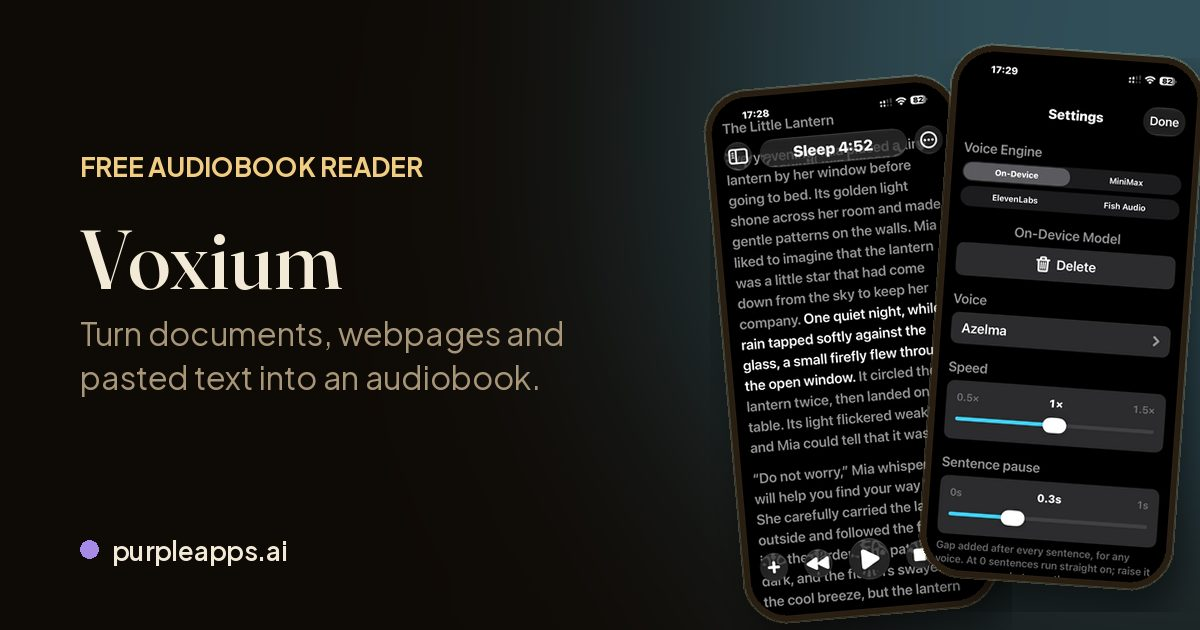
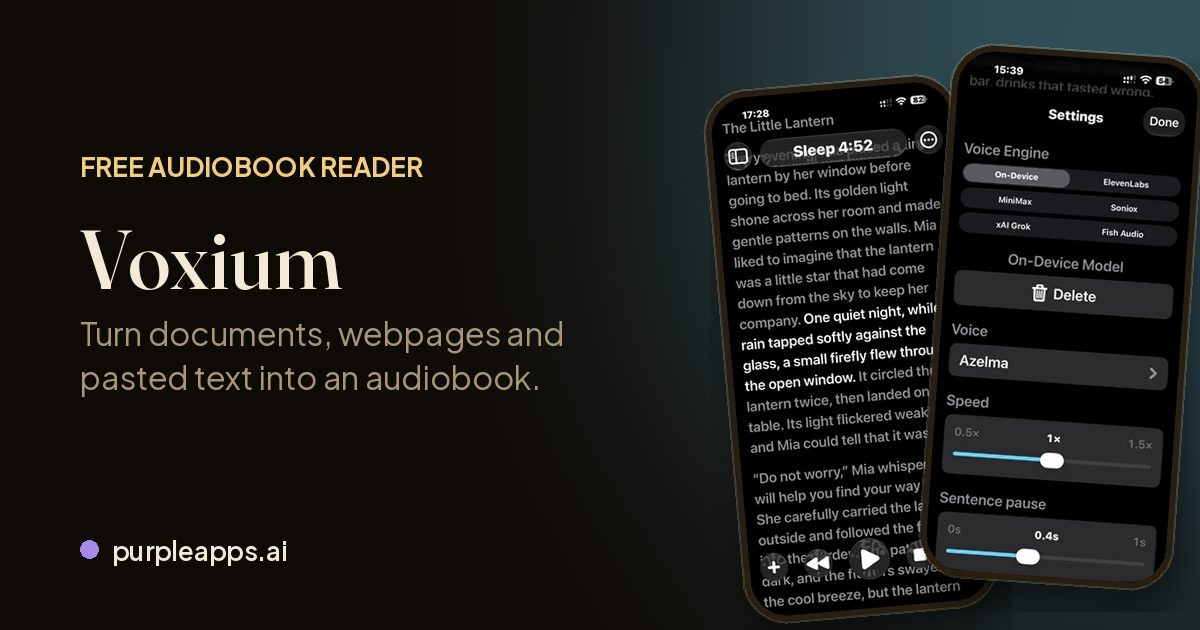
Voxium: six voice engines (On-Device, ElevenLabs, MiniMax, Soniox, xAI Grok, Fish Audio) and new voice settings screenshot

Changed region(s): [[0.7708, 0.2111, 0.9867, 0.9349], [0.8017, 0.0905, 0.9867, 0.1508], [0.9558, 0.181, 0.9867, 0.2111]]

diff --git a/voxium.html b/voxium.html
@@ -3,7 +3,7 @@
 <head>
     <meta charset="UTF-8" />
     <meta name="viewport" content="width=device-width, initial-scale=1.0" />
-    <meta name="description" content="Voxium is a free audiobook reader for iPhone and iPad. Listen to your PDFs, EPUBs, DOCX files, webpages and pasted text with a private on-device voice." />
+    <meta name="description" content="Voxium is a free audiobook reader for iPhone and iPad with six voice engines: On-Device, ElevenLabs, MiniMax, Soniox, xAI Grok and Fish Audio." />
     <title>Voxium - Free Audiobook Reader for iPhone and iPad</title>
     <link rel="stylesheet" href="styles.css" />
     <link rel="icon" href="favicon.svg" type="image/svg+xml" />
@@ -12,7 +12,7 @@
     <meta property="og:site_name" content="Purple Apps" />
     <meta property="og:locale" content="en_GB" />
     <meta property="og:title" content="Voxium - Free Audiobook Reader for iPhone and iPad" />
-    <meta property="og:description" content="Voxium is a free audiobook reader for iPhone and iPad. Listen to your PDFs, EPUBs, DOCX files, webpages and pasted text with a private on-device voice." />
+    <meta property="og:description" content="Voxium is a free audiobook reader for iPhone and iPad with six voice engines: On-Device, ElevenLabs, MiniMax, Soniox, xAI Grok and Fish Audio." />
     <meta property="og:url" content="https://purpleapps.ai/voxium" />
     <meta property="og:image" content="https://purpleapps.ai/assets/og/voxium.jpg" />
     <meta property="og:image:width" content="1200" />
@@ -20,7 +20,7 @@
     <meta property="og:image:alt" content="Voxium - Free Audiobook Reader for iPhone and iPad" />
     <meta name="twitter:card" content="summary_large_image" />
     <meta name="twitter:title" content="Voxium - Free Audiobook Reader for iPhone and iPad" />
-    <meta name="twitter:description" content="Voxium is a free audiobook reader for iPhone and iPad. Listen to your PDFs, EPUBs, DOCX files, webpages and pasted text with a private on-device voice." />
+    <meta name="twitter:description" content="Voxium is a free audiobook reader for iPhone and iPad with six voice engines: On-Device, ElevenLabs, MiniMax, Soniox, xAI Grok and Fish Audio." />
     <meta name="twitter:image" content="https://purpleapps.ai/assets/og/voxium.jpg" />
     <meta name="twitter:image:alt" content="Voxium - Free Audiobook Reader for iPhone and iPad" />
     <script type="application/ld+json">
@@ -28,7 +28,7 @@
       "@context": "https://schema.org",
       "@type": "MobileApplication",
       "name": "Voxium",
-      "description": "Voxium is a free audiobook reader for iPhone and iPad. Listen to your PDFs, EPUBs, DOCX files, webpages and pasted text with a private on-device voice.",
+      "description": "Voxium is a free audiobook reader for iPhone and iPad with six voice engines: On-Device, ElevenLabs, MiniMax, Soniox, xAI Grok and Fish Audio.",
       "url": "https://purpleapps.ai/voxium",
       "image": "https://purpleapps.ai/assets/og/voxium.jpg",
       "operatingSystem": "iOS, iPadOS",
@@ -44,7 +44,7 @@
       },
       "screenshot": [
         "https://purpleapps.ai/assets/screenshots/voxium-reader-sleep-timer.webp",
-        "https://purpleapps.ai/assets/screenshots/voxium-voice-settings-1.webp",
+        "https://purpleapps.ai/assets/screenshots/voxium-voice-engines.webp",
         "https://purpleapps.ai/assets/screenshots/voxium-reader-active.webp",
         "https://purpleapps.ai/assets/screenshots/voxium-voice-settings-2.webp",
         "https://purpleapps.ai/assets/screenshots/voxium-reader-menu.webp"
@@ -97,7 +97,7 @@
     </div>
     <div class="product-media" aria-hidden="true">
         <div class="phone-frame"><img src="assets/screenshots/voxium-reader-sleep-timer.webp" alt="Voxium reading a story aloud with sentence highlighting and a sleep timer" width="640" height="1386" fetchpriority="high" decoding="async" /></div>
-        <div class="phone-frame"><img src="assets/screenshots/voxium-voice-settings-1.webp" alt="Voxium voice settings with the on-device voice engine, speed and sentence pause controls" width="640" height="1386" decoding="async" /></div>
+        <div class="phone-frame"><img src="assets/screenshots/voxium-voice-engines.webp" alt="Voxium voice settings showing the six voice engines: On-Device, ElevenLabs, MiniMax, Soniox, xAI Grok and Fish Audio" width="282" height="612" decoding="async" /></div>
     </div>
 </header>
 
@@ -124,7 +124,7 @@
             <span class="eyebrow">Your voice, your way</span>
             <h2>Private by default. Premium when you choose.</h2>
             <p>Voxium includes a free on-device voice that runs privately on your iPhone or iPad after a one-time download. No account and no API key are needed to get started.</p>
-            <p>Want something different? Add your own MiniMax, ElevenLabs, or Fish Audio key and choose the voice that suits your book. Fine-tune speed, sentence pauses, paragraph pauses, and auto-play to make narration feel right.</p>
+            <p>Want something different? Voxium has six voice engines. Add your own ElevenLabs, MiniMax, Soniox or Fish Audio API key, or sign in with your xAI account for Grok voices, then choose the voice that suits your book. Fine-tune speed, sentence pauses, paragraph pauses, and auto-play to make narration feel right.</p>
         </div>
         <div class="voxium-showcase-media">
             <div class="phone-frame"><img src="assets/screenshots/voxium-voice-settings-2.webp" alt="Voxium settings for paragraph pauses, auto-play, and webpage cleanup" width="640" height="1386" loading="lazy" decoding="async" /></div>
@@ -158,8 +158,9 @@
         <h2>Key features</h2>
         <ul>
             <li>Import PDFs, EPUBs, DOCX files, text files, webpages, and pasted text</li>
+            <li>Six voice engines: On-Device, ElevenLabs, MiniMax, Soniox, xAI Grok and Fish Audio</li>
             <li>Free on-device narration after a one-time download</li>
-            <li>Optional MiniMax, ElevenLabs, and Fish Audio voices using your own API key</li>
+            <li>Optional ElevenLabs, MiniMax, Soniox and Fish Audio voices using your own API key</li>
             <li>xAI Grok voices with a simple sign-in — runs on your existing xAI subscription</li>
             <li>Sentence highlighting, playback controls, and saved reading position</li>
             <li>Adjustable speed, sentence pauses, paragraph pauses, and sleep timer</li>
